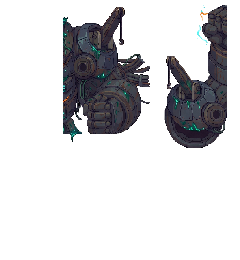
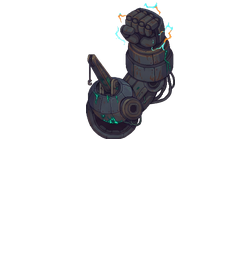
Leviathan: zerschnittene Arm-Posen (Raise/Slam) neu ausgeschnitten, Rest-Splitter an Torso/Kopf entfernt
Claude-Session: https://claude.ai/code/session_016nKYwnYuF4CmZLCQQeZHuo

Changed region(s): [[0.2625, 0.0, 0.9625, 0.5846]]

diff --git a/handoff/endboss_arena.md b/handoff/endboss_arena.md
@@ -12,6 +12,8 @@
   - ✅ **Monumentale Endboss-Attacken (`bossFx.ts`, `leviathanArena.ts`):** Polierter, mehrschichtiger 68-px-**Omega-Reaktor-Strahl** direkt aus der Brust-Linse; **Titanen-Welle** (`width: 26`); **Überdruck-Sturm** (`h: 44`, `w: 200`) nur aus intakten Kühl-Schächten (nahtlos in `arena_leviathan_bg.png` integriert, mit Glühen & dezenten Ziel-Klammern statt aufgeklebter Kästchen).
   - ✅ **Endlos-Absturz-Loop in Phase II behoben:** `DungeonScene.findSafeFloorPos()` validiert `lastSafeX/Y` beim Pit-Fall-Respawn **und** direkt beim Wegbrechen der Mittelplatten.
 
+- **✅ Optik-Bereinigung (Chat „Leviathan Optik“, 2026-11-28):** `armRaise`/`armSlam` waren am Zellraster zerschnitten (halbe Arme, harte Schnittkante, Fremdstück links) → aus `art_source/rigs/boss_leviathan_arms.png` per Komponenten-Ausschnitt neu gesetzt (Schulter-Pivot (132,108) unverändert, Raise 0,86× damit sie in den 240×260-Rahmen passt); Rest-Splitter links an `torso`, `torsoP2`, `head`, `headP2` entfernt. **Learning 20:** Posen eines Sheets, die über die Zellgrenze ragen, nie per Raster schneiden, sondern per Flood-Fill/Komponente. ⬜ Offen: Sichtprüfung im echten Spiel (`?bosslab` → ARENEN), evtl. weitere Feinheiten (Kopf-Sitz, Torso-Hals-Loch) nach Rückmeldung des Inhabers.
+
 ## 💡 Praxis-Learnings & harte Fallen aus dem Leviathan-Pilot (für S2–S4 Endbosse & künftige Chats!)
 > **Unbedingt lesen vor jeder neuen M12-Endboss-Arena oder Boss-Rig-Überarbeitung:**
 1. **Keine 2D-IK-Stäbchen / Sticker-Gelenke an Wand-Bossen:** Zusammengestöpselte Einzelteil-Knochen und runde Gelenk-Kreise wirken wie drübergelegte Fremdteile. Stattdessen immer ein echtes **M11-Pose-Set-Rig** (`src/data/rigs/<boss>.json`) bauen — ganze Arm-Posen (`armIdle`, `armRaise`, `armSlam`, `armDmg`, `armCrit`), die im selben Stil-Durchgang entstehen.

diff --git a/handoff/README.md b/handoff/README.md
@@ -7,7 +7,7 @@ Jeder Chat/Agent pflegt **nur die Datei seines Bereichs**. `HANDOFF.md` bleibt d
 
 | Bereich | Besitzer (Werkzeug · Chat) | seit | Umfang (was ist in Arbeit — **was bewusst nicht**) |
 | :--- | :--- | :--- | :--- |
-| Endboss-Arenen M12 (Leviathan-Pilot, künftig S2–S4) | Claude Code · Chat „Leviathan Optik-Überarbeitung“ | 2026-11-28 | nur Optik/Sauberkeit des Leviathan (Rig, Wand, Effekte); keine neue Arena |
+| Endboss-Arenen M12 (Leviathan-Pilot, künftig S2–S4) | frei — Pilot wartet auf Abnahme im echten Spiel | 2026-11-28 | nächste Arena erst nach Abnahme (Pipeline Stufe 8) |
 | Cutscenes | siehe [`cutscenes.md`](cutscenes.md) | — | Besitzer dort eintragen |
 | Gegner-Rigs / Boss-Rigs (M11) | je Gegner: siehe Tabelle unten, Status-Blatt | — | pro Gegner/Boss ein Besitzer |
 | Sprite-Queue (`SPRITE_QUEUE.md`) | Antigravity (offene `[ ]`) · Claude-Chats nur `[~]` für ihre laufende Aufgabe | — | `[~]` = in Arbeit, **nicht** doppelt erzeugen |
